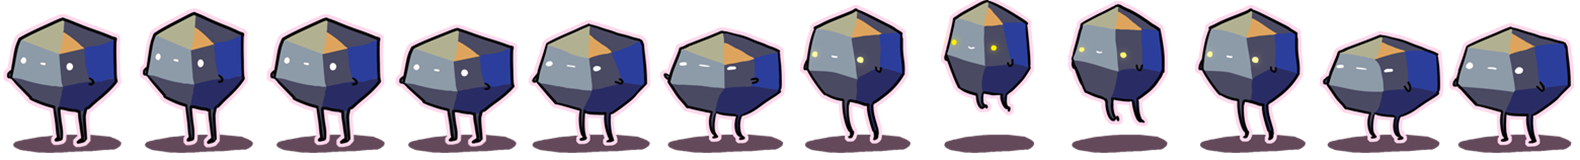
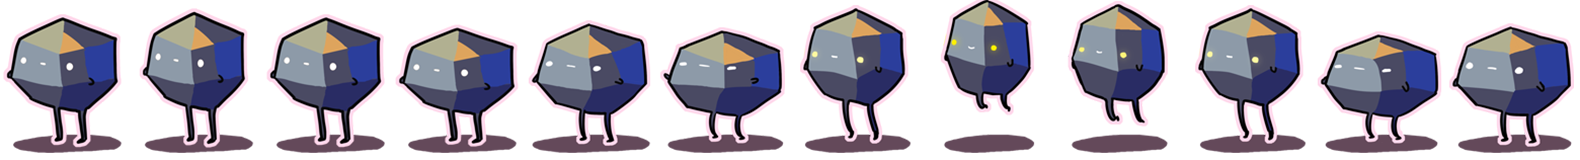
animation cycle fixed

Changed region(s): [[0.8373, 0.2188, 0.9304, 0.9062]]

diff --git a/core/src/edu/cornell/gdiac/ailab/Character.java b/core/src/edu/cornell/gdiac/ailab/Character.java
@@ -201,13 +201,15 @@ public class Character implements GUIElement {
 				//change to interrupted later maybe?
 				this.setIdle();
 			}
-			if (castPosition - lastCastStart >= ((1-this.getActionBar().getCastPoint())/this.getActionBar().getTotalNumSlots())){
+			else if (castPosition > (this.getNextCast() - this.getActionBar().getSlotWidth()) 
+					&& (castPosition -lastCastStart) > this.getActionBar().getSlotWidth()){
 				this.setCast();
 			} else {
 				this.setActive();
 			}
 		}
-	}
+		}
+	
 	public float getX(){
 		return this.xPosition;
 	}
@@ -626,7 +628,8 @@ public class Character implements GUIElement {
 	 */
 	public FilmStrip getFilmStrip(InGameState gameState){
 		FilmStrip fs = animation.getTexture(charState,gameState);
-		if (fs == null){
+		// flip back when its in execute
+		if (fs == null && this.charState == CharacterState.EXECUTE){
 			this.setIdle();
 		}
 		return fs;

diff --git a/core/src/edu/cornell/gdiac/ailab/AnimationNode.java b/core/src/edu/cornell/gdiac/ailab/AnimationNode.java
@@ -60,8 +60,8 @@ public class AnimationNode {
 			curFrameIndex = 0;
 			curFrameDuration = 0;
 		}
-		// in idle state allows for cycling back until otherwise changed externally
-		else if (charState.id == curSegment && charState == CharacterState.IDLE
+		// executes the only action that doesn't loop around
+		else if (charState.id == curSegment && charState != CharacterState.EXECUTE
 				&& curFrameIndex>=animation.segments.get(curSegment).length){
 			curFrameIndex = 0;
 			curFrameDuration = 0;			
